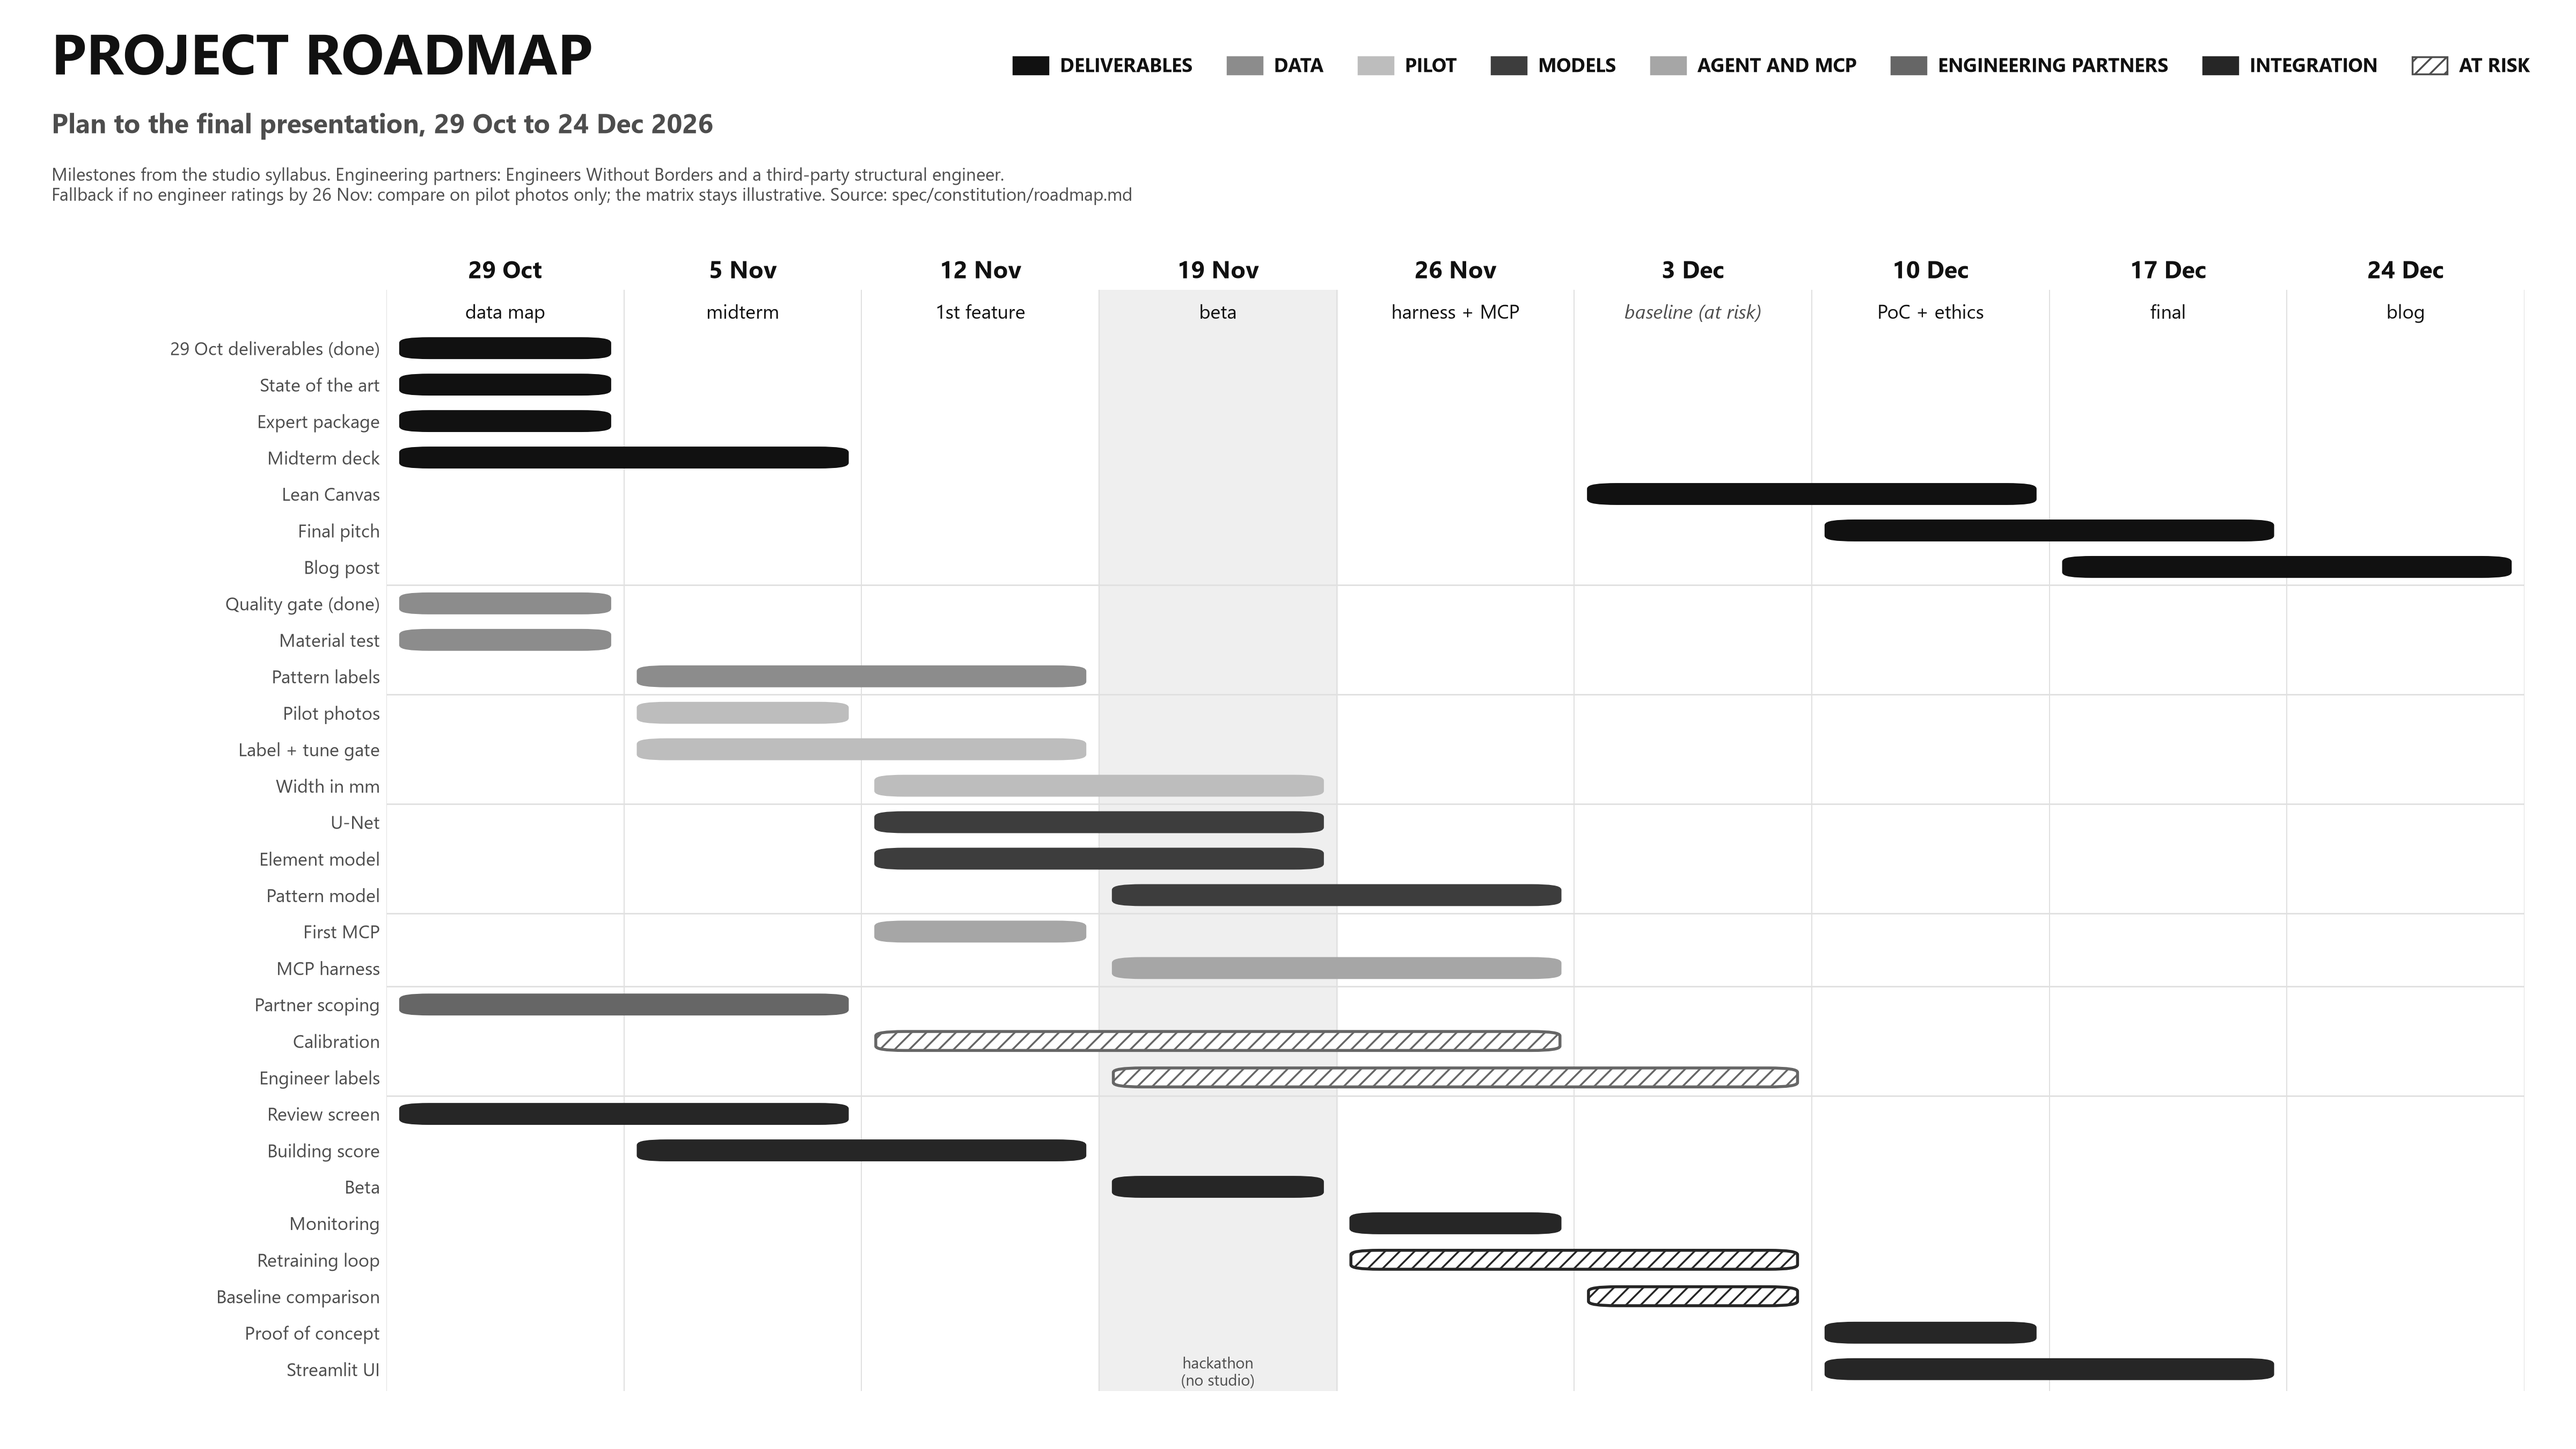
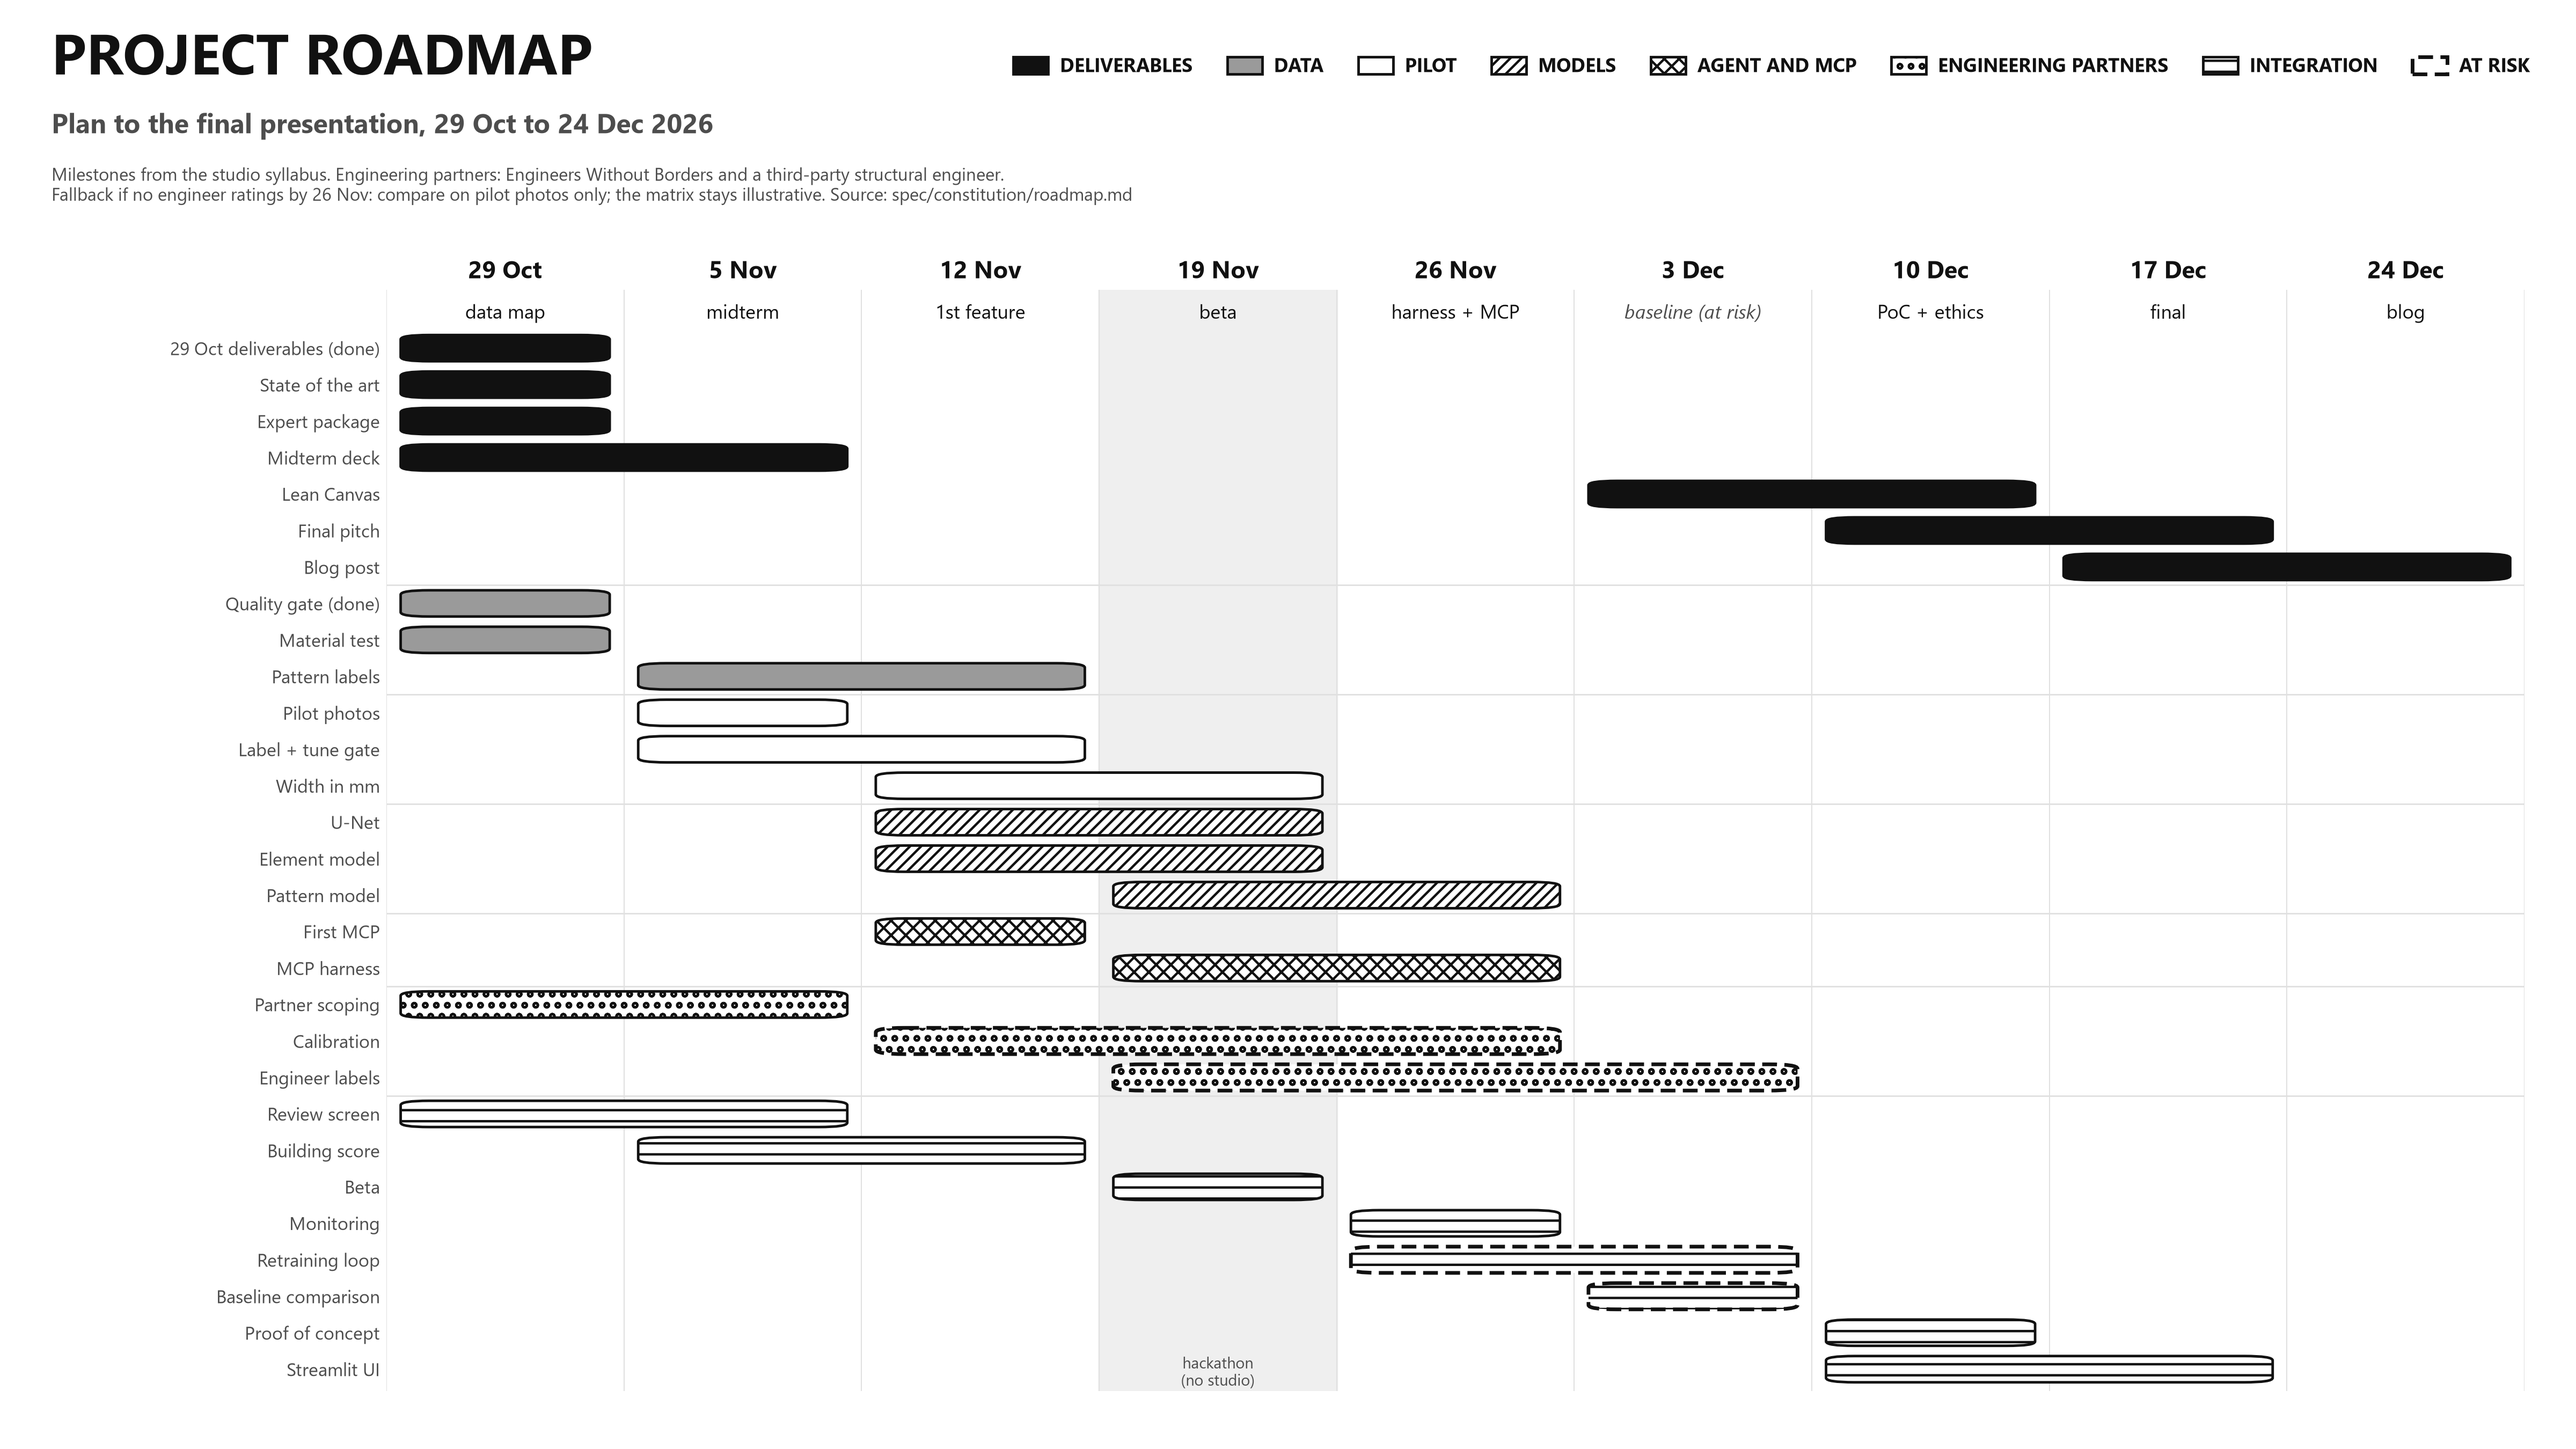
Roadmap: one distinct fill or pattern per workstream (black, grey, white, hatches, dots, lines); at risk as a dashed border

diff --git a/src/viz/figures.py b/src/viz/figures.py
@@ -1009,8 +1009,11 @@ WEEK_DATES = ["29 Oct", "5 Nov", "12 Nov", "19 Nov", "26 Nov", "3 Dec", "10 Dec"
 WEEK_MILESTONES = [("data map", False), ("midterm", False), ("1st feature", False), ("beta", False),
                    ("harness + MCP", False), ("baseline", True), ("PoC + ethics", False), ("final", False),
                    ("blog", False)]
-WORKSTREAM_COLOURS = {"Deliverables": "#111111", "Data": "#8c8c8c", "Pilot": "#bdbdbd", "Models": "#3d3d3d",
-                      "Agent and MCP": "#a6a6a6", "Engineering partners": "#666666", "Integration": "#262626"}
+# One clearly different look per workstream (never two greys): (fill, hatch); every edge is black.
+WORKSTREAM_STYLE = {"Deliverables": ("#111111", None), "Data": ("#9a9a9a", None), "Pilot": ("white", None),
+                    "Models": ("white", "////"), "Agent and MCP": ("white", "xxx"),
+                    "Engineering partners": ("white", "oo"), "Integration": ("white", "--")}
+RISK_EDGE = dict(ls=(0, (4, 2)), lw=2.0)  # at risk (needs the engineering partners): thick dashed border
 
 
 def timeline():
@@ -1020,15 +1023,15 @@ def timeline():
     ax.axvspan(3, 4, color="#efefef", zorder=0)
     ax.text(3.5, n - 0.9, "hackathon\n(no studio)", ha="center", va="center", fontsize=8.5, color=INK_2)
     previous = None
+    plt.rcParams["hatch.linewidth"] = 1.3
     for i, (stream, task, start, end, risk) in enumerate(PLAN):
-        colour = WORKSTREAM_COLOURS[stream]
+        fill, hatch = WORKSTREAM_STYLE[stream]
         if stream != previous and previous is not None:
             ax.axhline(i - 0.5, color=GRID, lw=0.8, zorder=1)
         previous = stream
-        ax.add_patch(FancyBboxPatch((start - 1 + 0.06, i - 0.26), end - start + 1 - 0.12, 0.52,
-                                    boxstyle="round,pad=0,rounding_size=0.12", zorder=2,
-                                    facecolor=colour if not risk else "white", edgecolor=colour,
-                                    hatch="///" if risk else None, lw=1.6))
+        ax.add_patch(FancyBboxPatch((start - 1 + 0.06, i - 0.36), end - start + 1 - 0.12, 0.72,
+                                    boxstyle="round,pad=0,rounding_size=0.12", zorder=2, facecolor=fill,
+                                    edgecolor=INK, hatch=hatch, **(RISK_EDGE if risk else dict(lw=1.4))))
     for w, (label, risk) in enumerate(WEEK_MILESTONES):  # one milestone per week, on one row
         ax.text(w + 0.5, -0.95, label + (" (at risk)" if risk else ""), ha="center", va="center", fontsize=10.5,
                 color=INK_2 if risk else INK, style="italic" if risk else "normal")
@@ -1042,8 +1045,9 @@ def timeline():
     ax.tick_params(length=0)
     for s in ax.spines.values():
         s.set_visible(False)
-    handles = [Patch(facecolor=c, edgecolor=c, label=s) for s, c in WORKSTREAM_COLOURS.items()]
-    handles.append(Patch(facecolor="white", edgecolor=INK_2, hatch="///", label="At risk"))
+    handles = [Patch(facecolor=fill, edgecolor=INK, hatch=hatch, lw=1.4, label=s)
+               for s, (fill, hatch) in WORKSTREAM_STYLE.items()]
+    handles.append(Patch(facecolor="white", edgecolor=INK, label="At risk", **RISK_EDGE))
     _house_legend(fig, handles, [h.get_label().upper() for h in handles])
     H, W = fig.get_figheight(), fig.get_figwidth()  # title as in the other figures: 38 pt on a 24 in figure
     fig.text(0.02, 1 - 0.45 / H, "PROJECT ROADMAP", fontsize=38 * W / 24, weight="bold", color=INK, va="center")
